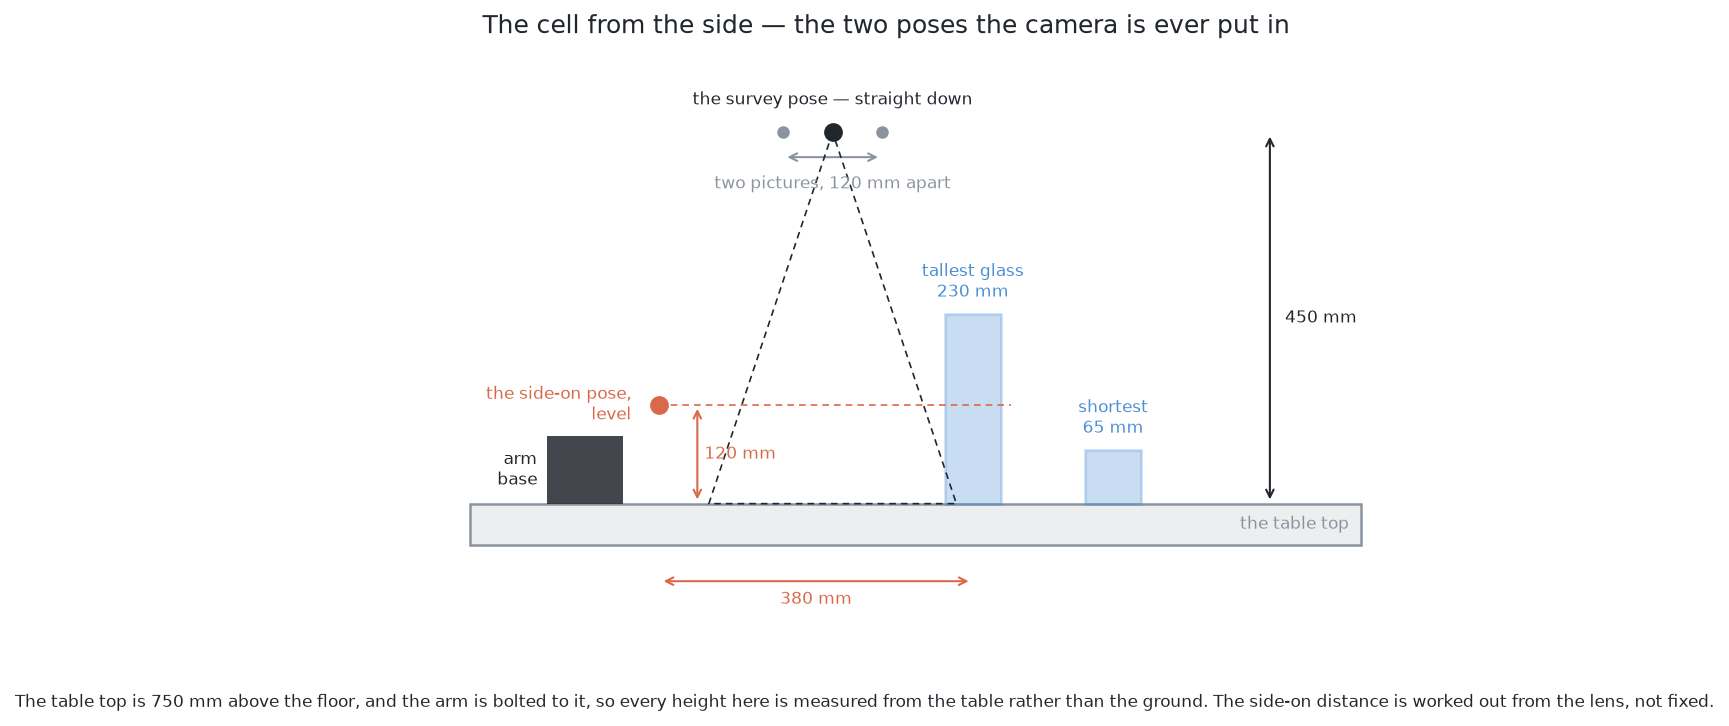
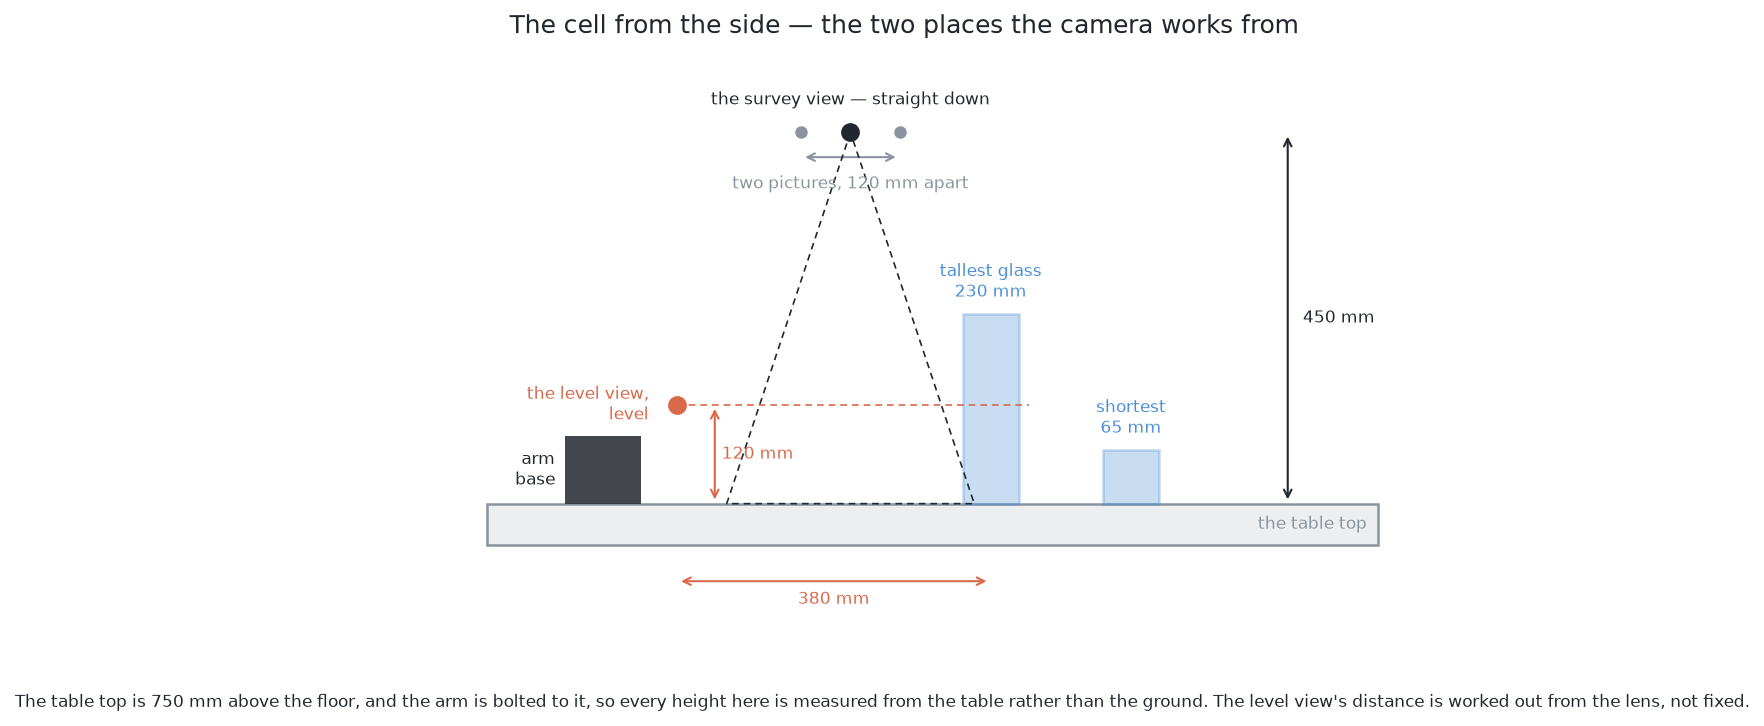
Name the five places the camera is put
The documents had names for two of the camera's positions and described the
other three in a phrase each, differently in each document. The cell page now
has a section that names all five — the survey view, the rack view, the level
view, the finger view and the parking spot — with a table, a paragraph each,
and a diagram showing where over the table they sit and how high they are.

It also gives a way to name a position the cell does not have, which several
solutions need when they weigh up a fixed camera: the spot, the height, the
aim, in that order.

Two things the page did not say before, both read out of the code while
writing it: the survey covers the glass zone from three stations, not some
unstated number; and the 450 mm is where the tool is sent, with the camera
15 mm below it and 85 mm to one side, which the code reads back from the
joint angles rather than assuming.

The generator now derives the 380 mm standoff, the survey footprint and the
station positions the same way task.py does, from the lens in
wrist_camera.urdf.xacro, so those numbers are no longer typed into the
drawing. The side elevation's labels move to the new names.

diff --git a/v5-pick-glasses/images/generators/make_cell_images.py b/v5-pick-glasses/images/generators/make_cell_images.py
@@ -11,6 +11,7 @@ and the drawings move with it.
 from __future__ import annotations
 
 import math
+import re
 import sys
 from pathlib import Path
 
@@ -28,14 +29,17 @@ sys.path.insert(0, str(ROOT / "src" / "work_cell"))
 from work_cell.arm.dimensions import (  # noqa: E402
     CAMERA_OFFSET,
     COMFORTABLE_REACH,
+    GRASP_DEPTH,
     GRIPPER_MAX_OPENING,
     LOWEST_GRIP,
+    MEASURE_FRAME_MARGIN,
     MEASURE_STANDOFF,
     MEASURE_VIEW_HEIGHT,
     PAD_HEIGHT,
     PAD_LENGTH,
     SURVEY_BASELINE,
     SURVEY_HEIGHT,
+    survey_stations,
 )
 from work_cell.glasses.shapes import KIND_RANGES, family  # noqa: E402
 from work_cell.rack.layout import (  # noqa: E402
@@ -46,6 +50,7 @@ from work_cell.rack.layout import (  # noqa: E402
     RACK_TOP_Z,
 )
 from work_cell.table.layout import ROBOT_BASE, TABLE_CENTRE_XY, TABLE_SIZE, TABLE_TOP_Z  # noqa: E402
+from work_cell.task import TALLEST_GLASS  # noqa: E402
 
 IMAGES = ROOT / "images"
 INK = "#22272e"
@@ -59,6 +64,48 @@ LABEL = 9
 NOTE = 8.2
 
 MM = 1000.0  # the drawings are in millimetres; the constants are in metres
+
+# The lens, read out of the model the simulator loads rather than typed here.
+_XACRO = (ROOT / "src" / "work_cell" / "work_cell" / "arm" / "camera"
+          / "wrist_camera.urdf.xacro").read_text()
+
+
+def _from_xacro(tag: str) -> float:
+    found = re.search(rf"<{tag}>([0-9.]+)</{tag}>", _XACRO)
+    if found is None:
+        raise SystemExit(f"<{tag}> is no longer in wrist_camera.urdf.xacro")
+    return float(found.group(1))
+
+
+FOV = _from_xacro("horizontal_fov")
+COLUMNS, ROWS = int(_from_xacro("width")), int(_from_xacro("height"))
+
+# One focal length does for both axes: the pixels are square, which is how the
+# simulator builds a camera given a field of view across.
+FX = (COLUMNS / 2.0) / math.tan(FOV / 2.0)
+
+# How far back the arm stands to measure a glass, worked out the way task.py
+# works it out: the frame has to reach from the table up to the rim of the
+# tallest glass the cell handles, and how far back that puts the camera is a
+# question about the lens.
+_HALF_FRAME = (ROWS / 2.0) / FX
+STANDOFF = max(
+    MEASURE_STANDOFF,
+    max(MEASURE_VIEW_HEIGHT, TALLEST_GLASS - MEASURE_VIEW_HEIGHT)
+    / (_HALF_FRAME * MEASURE_FRAME_MARGIN),
+)
+
+# What one survey picture covers, and how much of it both pictures of a
+# station share — the second is what the stations are spread on.
+FOOTPRINT = (SURVEY_HEIGHT * COLUMNS / FX, SURVEY_HEIGHT * ROWS / FX)
+SHARED = (FOOTPRINT[0] - GRIPPER_MAX_OPENING,
+          FOOTPRINT[1] - SURVEY_BASELINE - GRIPPER_MAX_OPENING)
+
+# Where the camera ends up when the fingers are round a glass: the tool stops
+# GRASP_DEPTH short of the glass's axis and the camera sits CAMERA_OFFSET from
+# the tool, a little further along the approach and well off to one side.
+FINGER_BACK = GRASP_DEPTH - CAMERA_OFFSET[2]
+FINGER_ASIDE = CAMERA_OFFSET[0]
 
 
 def save(figure, name: str) -> None:
@@ -202,7 +249,7 @@ def cell_from_the_side() -> None:
     for dx in (-SURVEY_BASELINE * MM / 2, SURVEY_BASELINE * MM / 2):
         axis.plot([300 + dx], [sy], "o", color=MUTED, ms=5)
     axis.plot([300], [sy], "o", color=INK, ms=8)
-    axis.text(300, sy + 34, "the survey pose — straight down", fontsize=NOTE,
+    axis.text(300, sy + 34, "the survey view — straight down", fontsize=NOTE,
               color=INK, ha="center")
     span(axis, 300 - SURVEY_BASELINE * MM / 2, sy - 30,
          300 + SURVEY_BASELINE * MM / 2, sy - 30, "", MUTED)
@@ -211,24 +258,24 @@ def cell_from_the_side() -> None:
 
     # The side-on pose, level.
     my = MEASURE_VIEW_HEIGHT * MM
-    cam_x = 470 - 380
+    cam_x = 470 - STANDOFF * MM
     axis.plot([cam_x, 470 + 46], [my, my], color=WARN, lw=0.8, ls=(0, (4, 3)))
     axis.plot([cam_x], [my], "o", color=WARN, ms=8)
-    axis.text(cam_x - 34, my, "the side-on pose,\nlevel", fontsize=NOTE,
+    axis.text(cam_x - 34, my, "the level view,\nlevel", fontsize=NOTE,
               color=WARN, ha="right", va="center")
 
     span(axis, 830, 0, 830, sy, f"{SURVEY_HEIGHT * MM:.0f} mm", INK, (62, 0))
     span(axis, cam_x + 46, 0, cam_x + 46, my, f"{MEASURE_VIEW_HEIGHT * MM:.0f} mm", WARN, (52, 0))
-    span(axis, cam_x, -thick - 44, 470, -thick - 44, "380 mm", WARN, (0, -22))
+    span(axis, cam_x, -thick - 44, 470, -thick - 44, f"{STANDOFF * MM:.0f} mm", WARN, (0, -22))
 
     axis.set_xlim(x0 - 190, x1 + 120)
     axis.set_ylim(-thick - 110, sy + 90)
-    axis.set_title("The cell from the side — the two poses the camera is ever put in",
+    axis.set_title("The cell from the side — the two places the camera works from",
                    fontsize=TITLE, color=INK, pad=12)
     figure.text(0.5, 0.015,
                 f"The table top is {TABLE_TOP_Z * MM:.0f} mm above the floor, and the arm is bolted to "
                 "it, so every height here is measured from the table rather than the ground. "
-                "The side-on distance is worked out from the lens, not fixed.",
+                "The level view's distance is worked out from the lens, not fixed.",
                 fontsize=NOTE, color=INK, ha="center")
     save(figure, "cell-from-the-side.png")
 
@@ -507,9 +554,125 @@ def splay_what_it_costs() -> None:
     save(figure, "splay-what-it-costs.png")
 
 
+def _eye(axis, x, y, dx, dy, colour, size=7.5):
+    """A camera, drawn as a dot with an arrow for the way it looks."""
+    axis.plot([x], [y], "o", color=colour, ms=size, zorder=4)
+    axis.annotate("", xy=(x + dx, y + dy), xytext=(x, y),
+                  arrowprops={"arrowstyle": "-|>", "color": colour, "lw": 1.3},
+                  zorder=4)
+
+
+def camera_positions() -> None:
+    """The five places the camera is ever put, named, in plan and elevation."""
+    figure, (plan, side) = plt.subplots(1, 2, figsize=(13.8, 6.6))
+    figure.patch.set_facecolor(PAPER)
+    for a in (plan, side):
+        a.set_facecolor(PAPER)
+        bare(a)
+        a.set_aspect("equal")
+
+    # ------------------------------------------------ left: where on the table
+    gx0, gx1, gy0, gy1 = (v * MM for v in GLASS_ZONE)
+    plan.add_patch(Rectangle((gx0, gy0), gx1 - gx0, gy1 - gy0,
+                             facecolor=GLASS, alpha=0.10, edgecolor=GLASS, lw=1.0))
+    plan.text(gx1 + 8, gy0 + 8, "the glass zone", fontsize=NOTE, color=GLASS,
+              ha="left", va="bottom")
+
+    rx0, rx1, ry0, ry1 = (v * MM for v in RACK_AREA)
+    plan.add_patch(Rectangle((rx0, ry0), rx1 - rx0, ry1 - ry0,
+                             facecolor=WARN, alpha=0.25, edgecolor=WARN, lw=1.0))
+    plan.text(rx1 + 14, (ry0 + ry1) / 2, "the rack view\nis straight over here",
+              fontsize=NOTE, color=WARN, ha="left", va="center")
+
+    plan.add_patch(Circle((0, 0), 28, facecolor=INK, edgecolor="none"))
+    plan.text(-40, 0, "the arm's\nbase", fontsize=NOTE, color=INK, ha="right", va="center")
+
+    stations = survey_stations(GLASS_ZONE, SHARED)
+    for station in stations:
+        plan.plot([station[0] * MM], [station[1] * MM], "s", color=INK, ms=6, zorder=5)
+    plan.text(stations[-1][0] * MM, stations[-1][1] * MM + 18,
+              f"{len(stations)} stations — the survey\nview is taken over each",
+              fontsize=NOTE, color=INK, ha="center", va="bottom")
+
+    park = np.array([0.5 * MM, 0.0])
+    plan.plot([park[0]], [park[1]], "o", markerfacecolor=PAPER, markeredgecolor=INK,
+              markeredgewidth=1.4, ms=9, zorder=5)
+    plan.text(park[0] + 18, park[1], "the parking spot", fontsize=NOTE,
+              color=INK, ha="left", va="center")
+
+    # The ring: every place the camera may stand to take a level view of one
+    # glass, 40 degrees apart, the way task.py offers them.
+    glass = np.array([(gx0 + gx1) / 2.0 + 70.0, (gy0 + gy1) / 2.0 + 80.0])
+    plan.add_patch(Circle(glass, 34, facecolor=_tint(GLASS, 0.5), edgecolor=GLASS, lw=1.3))
+    toward_base = math.atan2(-glass[1], -glass[0])
+    near, far = (v * MM for v in COMFORTABLE_REACH)
+    for step in range(-4, 5):
+        angle = toward_base + step * math.radians(40.0)
+        eye = glass + STANDOFF * MM * np.array([math.cos(angle), math.sin(angle)])
+        reachable = near <= float(np.linalg.norm(eye)) <= far
+        colour = WARN if step == 0 else (MUTED if reachable else "#dde1e4")
+        plan.plot([eye[0], glass[0]], [eye[1], glass[1]], color=colour, lw=0.8,
+                  ls=(0, (4, 4)), alpha=0.55 if step else 0.9)
+        _eye(plan, eye[0], eye[1], (glass[0] - eye[0]) * 0.13, (glass[1] - eye[1]) * 0.13,
+             colour, size=9 if step == 0 else 5.5)
+    plan.set_xlim(-150, 950)
+    plan.set_ylim(-700, 430)
+    plan.text(glass[0], glass[1] - STANDOFF * MM - 40,
+              "the level view is taken from one of nine places round the glass,\n"
+              "40° apart — orange is the one tried first, straight in from the base.\n"
+              "The pale ones are too far out for the arm to reach.",
+              fontsize=NOTE, color=INK, ha="center", va="top")
+    plan.set_title("Where over the table", fontsize=LABEL, color=INK, pad=8)
+
+    # ------------------------------------- right: how high, and which way it looks
+    gx = 430.0
+    side.plot([-80, 600], [0, 0], color=MUTED, lw=1.4)
+    side.text(598, 8, "the table", fontsize=NOTE, color=MUTED, ha="right", va="bottom")
+    z = np.asarray(SPLAY_GLASS.height) * MM
+    r = np.asarray(SPLAY_GLASS.radius) * MM
+    side.fill_betweenx(z, gx - r, gx + r, color=_tint(GLASS, 0.30), lw=0)
+    side.plot(gx + r, z, color=GLASS, lw=1.2)
+    side.plot(gx - r, z, color=GLASS, lw=1.2)
+
+    survey_y = SURVEY_HEIGHT * MM
+    side.plot([gx, gx], [0, survey_y], color=MUTED, lw=0.8, ls=(0, (5, 5)))
+    _eye(side, gx, survey_y, 0, -96, INK)
+    side.text(gx + 16, survey_y, "the survey view\n450 mm up, looking straight down",
+              fontsize=NOTE, color=INK, ha="left", va="center")
+
+    level_y = MEASURE_VIEW_HEIGHT * MM
+    level_x = gx - STANDOFF * MM
+    _eye(side, level_x, level_y, 96, 0, WARN)
+    side.text(level_x, level_y + 26, "the level view\n120 mm up, looking level",
+              fontsize=NOTE, color=WARN, ha="left", va="bottom")
+    span(side, level_x, -40, gx, -40, f"{STANDOFF * MM:.0f} mm", WARN, (0, -20))
+
+    finger_x = gx - FINGER_BACK * MM
+    finger_y = LOWEST_GRIP * MM
+    _eye(side, finger_x, finger_y, 54, 0, GOOD)
+    side.text(finger_x - 10, finger_y + 12,
+              f"the finger view\n{FINGER_BACK * MM:.0f} mm back, "
+              f"{FINGER_ASIDE * MM:.0f} mm to one side,\nat whatever height the grip is",
+              fontsize=NOTE, color=GOOD, ha="right", va="bottom")
+
+    span(side, gx - 54, 0, gx - 54, survey_y, f"{survey_y:.0f} mm", INK, (-46, 0))
+    span(side, level_x - 46, 0, level_x - 46, level_y, f"{level_y:.0f} mm", WARN, (-40, 0))
+    side.set_xlim(-130, 640)
+    side.set_ylim(-110, survey_y + 80)
+    side.set_title("How high, and which way it looks", fontsize=LABEL, color=INK, pad=8)
+
+    figure.text(0.5, 0.018,
+                "Every one of these is the wrist camera. The arm has only the one, and these are "
+                "the places it takes it to.",
+                fontsize=NOTE, color=INK, ha="center")
+    figure.tight_layout(rect=(0, 0.075, 1, 1))
+    save(figure, "the-camera-positions.png")
+
+
 def main() -> None:
     cell_from_above()
     cell_from_the_side()
+    camera_positions()
     splay_why_it_happens()
     splay_what_it_costs()
     the_sensors()

diff --git a/v5-pick-glasses/docs/the-cell.md b/v5-pick-glasses/docs/the-cell.md
@@ -37,7 +37,7 @@ height, the camera's height, the rack's pegs: all from the table top.
 The camera is only ever put in two poses, and almost every misunderstanding in
 these documents comes from mixing them up.
 
-| | the survey pose | the side-on pose |
+| | the survey view | the level view |
 |---|---|---|
 | where | 450 mm above the table | 120 mm above the table |
 | looking | straight down | level |
@@ -45,6 +45,12 @@ these documents comes from mixing them up.
 | one pixel covers | 1.62 mm | 1.37 mm |
 | the frame covers | 519 by 390 mm of table | 439 by 329 mm |
 | what it is for | finding everything, roughly | measuring one glass, precisely |
+
+These two have three more beside them — over the rack, down the fingers, and
+the spot the arm waits at. All five are named and drawn in
+[Where the camera stands](#where-the-camera-stands-and-what-each-place-is-called).
+Older documents call these two the *survey pose* and the *side-on pose*; they
+are the same two places.
 
 The 380 mm is **not a constant**. `MEASURE_STANDOFF` fixes only a floor of
 300 mm — nearer than that and a glass fills the frame before it is all in it.
@@ -95,6 +101,89 @@ viewpoints. It means moving the camera costs seconds of arm time. And it means
 the camera's pose is known exactly, from the joint encoders — which is what makes
 [solution 9](problem-2/solutions/09-self-supervised-from-the-arms-own-movement.md)
 possible at all.
+
+## Where the camera stands, and what each place is called
+
+The arm has one camera and it is on the wrist, so a camera position here always
+means a place the arm carries that one camera to. Five places cover the whole
+run. These are their names, and the rest of the documents use them.
+
+![Where the camera is put](../images/the-camera-positions.png)
+
+| name | where it stands | which way it looks | what it is for |
+|---|---|---|---|
+| **the survey view** | over a station in the glass zone, 450 mm up | straight down | what is on the table, and roughly where |
+| **the rack view** | straight over the middle of the rack, 450 mm up | straight down | reading the marker, once, before anything else |
+| **the level view** | 380 mm out from one glass, 120 mm up | level, at the glass | measuring that one glass |
+| **the finger view** | 135 mm back from the glass and 85 mm to one side, at the height of the grip | along the fingers | is the glass between the pads, or beside them |
+| **the parking spot** | 500 mm out from the base, 450 mm up | straight down | where the arm waits with nothing to do |
+
+**The survey view.** The camera is taken up to 450 mm and pointed straight down.
+One picture from there covers 519 by 390 mm of table, but a station takes two
+pictures 120 mm apart and only the part in *both* is worth anything, which
+leaves 424 by 175 mm. The glass zone is 320 by 360 mm, so it takes **three
+stations** in a line to cover it, and the stations overlap.
+
+One honest detail. The 450 mm is where the *tool* is sent. The camera sits
+85 mm to one side of the tool and 15 mm along the way it points, so it is
+actually about 435 mm up and a hand's breadth off to the side. The code does
+not guess this. It reads where the camera really was from the joint angles, and
+that reading is what the pair of pictures is measured against.
+
+**The rack view.** The same height and the same straight-down aim, over the
+middle of the rack instead of over the glasses. It happens once, at the start of
+a run, and all it does is read the ArUco marker. Here the code *does* take the
+85 mm out of the tool's position first, so the camera itself ends up over the
+middle of the rack.
+
+**The level view.** The camera comes down to 120 mm above the table, points
+level, and stands 380 mm back from the glass. This is the view that measures a
+glass, and the view [solution 3](problem-2/solutions/03-move-the-camera.md)
+sends the camera to.
+
+The 380 mm is worked out, not stored. The frame has to reach from the table at
+the bottom to the rim of the tallest glass the cell handles at the top. Both of
+those are angles, so how far back that puts the camera depends on the lens.
+
+The arm can stand anywhere on a circle round the glass, and it is offered
+**nine places on that circle, 40° apart**. The first one it tries is straight in
+from its own base, because that is the shortest reach. It moves on to the next
+if something is standing behind the glass — a glass behind the target joins it
+in the mask and the two measure as one wide glass — or if the pose is too far
+out for the arm to reach.
+
+**The finger view.** This one is not chosen at all. It is wherever the camera
+ends up once the fingers are round the glass: 135 mm back from the glass's axis,
+85 mm off to one side, at whatever height the grip was fixed at. Everything
+before it aimed the fingers from pictures taken half a metre away. This is the
+one look taken from where the fingers actually are, and at this range a
+millimetre on the table is worth many pixels. It is used for one thing only —
+shifting sideways onto the glass before the fingers close.
+
+**The parking spot.** 500 mm out from the base, 450 mm up, looking down. The
+arm goes here when it has finished, and when it has given up on something, so
+that it is out of the way and the next move starts from a known place.
+
+### Naming a place that is not one of these
+
+Some documents talk about cameras this cell does not have: one bolted above the
+table, one standing at the edge looking across. Describe any of them with three
+things, in this order — **the spot, the height, the aim**.
+
+- **The spot** is where on the table it stands over, or beside: *over the middle
+  of the glass zone*, *over the rack*, *at the near edge of the table*, *beside
+  the glass*.
+- **The height** is in millimetres above the table top, because every height in
+  this project is. The landmarks are 0 (table level), 120 (the level view) and
+  450 (the survey view). A fraction is fine when the exact number does not
+  matter: *half the survey height* is 225 mm.
+- **The aim** is *looking down*, *looking level*, *looking at a slant of 30°*,
+  or *looking along the fingers*.
+
+So "a camera at the near edge of the table, at table level, looking level" is
+the fixed side camera some of the solutions weigh up, and "over the middle of
+the glass zone, 450 mm up, looking down" is the survey view written out the
+long way.
 
 ## The words
 
